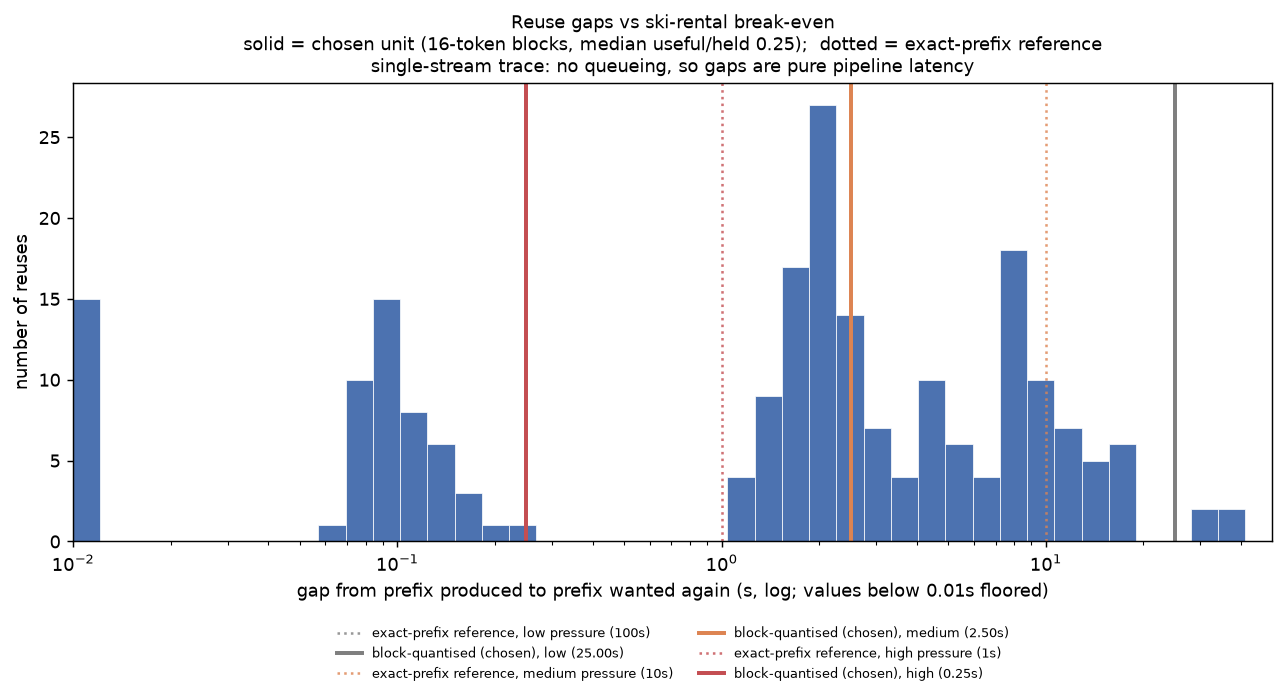
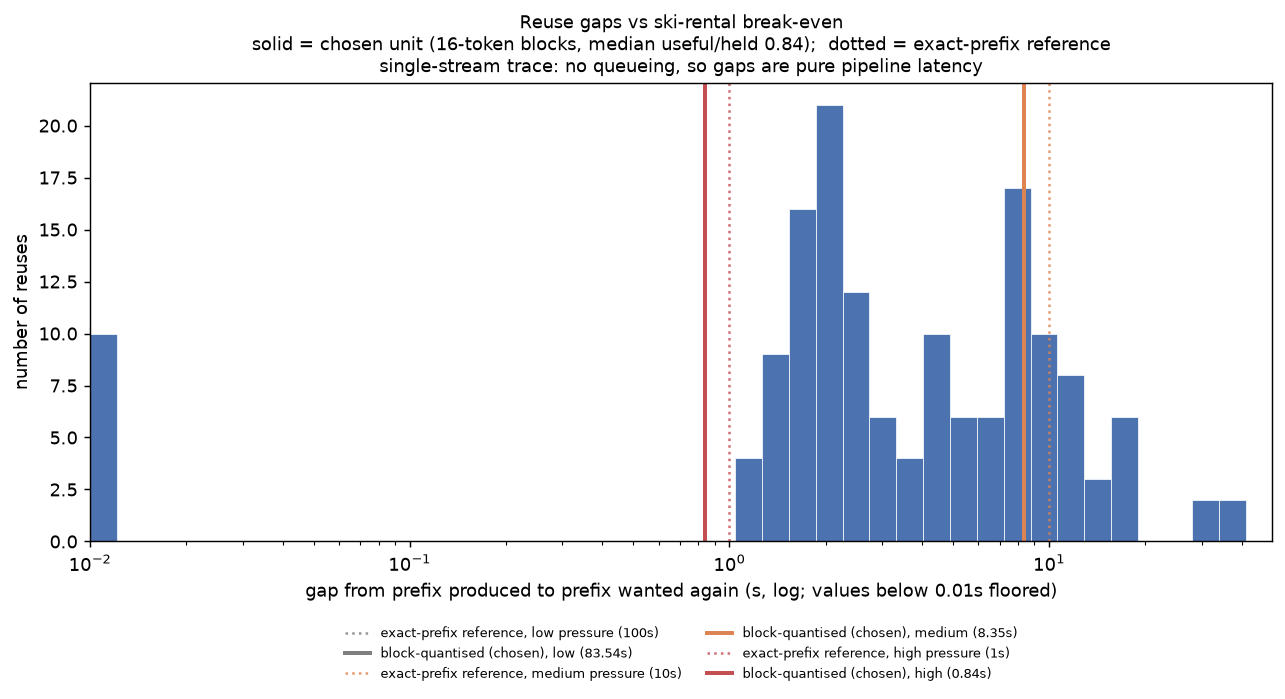
Make prefix matching model-aware; fix two-process segmentation
A KV cache belongs to one model instance, so a prefix qwen computed cannot
serve a llama3.2 call however identical the text. compute_prefixes now only
matches earlier calls on the same model, the model is part of the cache key,
and the engine refuses a cross-model entry as defence in depth.
same_model_only=False reproduces the earlier figures.

Also fixes segmentation when two processes share a run_id. MAARA_RUN_ID pins
the trace filename, so a run resumed under the same id appends a second seq
sequence starting again at 1; sorting by seq interleaved them and fabricated a
task-run boundary on nearly every row. The shared-first trace segmented into
305 blocks instead of 60, which invalidated every reuse figure computed from
it. Now ordered by t_start with a new process group wherever seq fails to
advance.

Effect of the model correction on the original layout is small (reusable 13.8%
-> 13.7%) because its reuse was almost entirely same-role. On the shared-first
layout it is large (20.2% -> 12.0%): most of that layout's apparent gain was
cross-model sharing a real cache could never use.

HANDOFF section 14a records both corrections. Figures regenerated per set.

diff --git a/tests/test_trace_loader.py b/tests/test_trace_loader.py
@@ -125,19 +125,21 @@ def test_prefix_finds_the_shared_opening():
     assert pf["b"].shared_tokens == int(len(shared) / (len(shared + "a completely different tail") / 75))
 
 
-def test_prefix_matches_across_roles_not_just_within():
+def test_prefix_matches_across_roles_on_the_same_model():
     """
-    Cross-role is the point: the coder and the Sentinel both carry the issue
-    text. Restricting to same-role would miss exactly the reuse under study.
+    Cross-role matching is the point -- the coder and the debugger both carry
+    the target file, and restricting to same-role would miss it. But the two
+    roles must be on the same model: the evaluator runs llama3.2 while the
+    coder usually runs qwen, and those cannot share a KV cache at all.
     """
-    shared = "ISSUE TEXT " * 30
-    prompts = {"e": [{"role": "user", "content": shared + "evaluate"}],
-               "c": [{"role": "user", "content": shared + "write code"}]}
-    block = [row(1, "T/1", "evaluator", "e", pt=80, model="llama3.2"),
-             row(2, "T/1", "coder", "c", pt=82)]
+    shared = "TARGET FILE " * 30
+    prompts = {"c": [{"role": "user", "content": shared + "write code"}],
+               "d": [{"role": "user", "content": shared + "diagnose"}]}
+    block = [row(1, "T/1", "coder", "c", pt=80, model="qwen2.5-coder:7b"),
+             row(2, "T/1", "debugger", "d", pt=82, model="qwen2.5-coder:7b")]
     pf = compute_prefixes(block, prompts, "r0")
-    assert pf["c"].shares_with == "e"
-    assert pf["c"].shared_tokens > 0
+    assert pf["d"].shares_with == "c"
+    assert pf["d"].shared_tokens > 0
 
 
 def test_prefix_picks_the_longest_of_several_earlier_calls():
@@ -302,3 +304,70 @@ def test_real_timing_is_sequential_and_retiming_creates_overlap():
     fast_span = max(t.arrival_time for t in fast)
     assert fast_span < seq_span
     assert [len(t.nodes) for t in seq] == [len(t.nodes) for t in fast]
+
+
+# --- model-aware prefix matching -----------------------------------------
+
+def test_prefix_does_not_match_across_models():
+    """
+    A KV cache belongs to one model instance. Two calls can carry byte-identical
+    prompts and still share nothing if they ran on different models -- counting
+    that as reuse overstates what any prefix cache could deliver.
+    """
+    shared = "IDENTICAL PREFIX " * 20
+    prompts = {"q": [{"role": "user", "content": shared + "qwen tail"}],
+               "l": [{"role": "user", "content": shared + "llama tail"}]}
+    block = [row(1, "T/1", "coder", "q", pt=90, model="qwen2.5-coder:7b"),
+             row(2, "T/1", "evaluator", "l", pt=92, model="llama3.2")]
+
+    pf = compute_prefixes(block, prompts, "r0")
+    assert pf["l"].shared_tokens == 0 and pf["l"].shares_with is None
+
+    # The uncorrected view, kept only to reproduce the earlier figures.
+    old = compute_prefixes(block, prompts, "r0", same_model_only=False)
+    assert old["l"].shares_with == "q" and old["l"].shared_tokens > 0
+
+
+def test_prefix_still_matches_within_a_model():
+    shared = "IDENTICAL PREFIX " * 20
+    prompts = {"a": [{"role": "user", "content": shared + "one"}],
+               "b": [{"role": "user", "content": shared + "two"}]}
+    block = [row(1, "T/1", "coder", "a", pt=90, model="qwen2.5-coder:7b"),
+             row(2, "T/1", "debugger", "b", pt=90, model="qwen2.5-coder:7b")]
+    pf = compute_prefixes(block, prompts, "r0")
+    assert pf["b"].shares_with == "a" and pf["b"].shared_tokens > 0
+
+
+def test_prefix_key_carries_the_model():
+    prompts = {"a": [{"role": "user", "content": "P" * 200 + "x"}],
+               "b": [{"role": "user", "content": "P" * 200 + "y"}]}
+    block = [row(1, "T/1", "coder", "a", pt=50, model="qwen2.5-coder:7b"),
+             row(2, "T/1", "coder", "b", pt=50, model="qwen2.5-coder:7b")]
+    pf = compute_prefixes(block, prompts, "r0")
+    assert "qwen2.5-coder:7b" in pf["b"].prefix_key
+
+
+def test_engine_refuses_a_cross_model_entry(tmp_path):
+    """Defence in depth: even if a key collided, the engine must not reuse an
+    entry another model produced."""
+    from sim.engine import Engine, EngineConfig, KVEntry
+    from sim.policies import ExecutionEstimator, FCFSScheduler, LRURetention
+    from sim.workload import (CostModel, CpuStageSeconds, StageTokens,
+                              WorkloadConfig, generate_trace)
+
+    cost, tok, cpu = CostModel(), StageTokens.from_measured(), CpuStageSeconds.from_measured()
+    tasks = generate_trace(WorkloadConfig(n_tasks=3, seed=1), cost, tok, cpu)
+    eng = Engine(tasks, cost, EngineConfig(kv_budget_mb=4096.0, max_batch=4),
+                 retention=LRURetention(), scheduler=FCFSScheduler(),
+                 estimator=ExecutionEstimator(cost, tok, cpu))
+
+    node = next(n for t in tasks for n in t.nodes if n.prefix_key)
+    planted = KVEntry(key=node.prefix_key, model="some-other-model", tokens=999,
+                      nbytes=cost.kv_bytes("llama3.2", 999), useful_tokens=999,
+                      recompute_s=1.0)
+    eng.entries[node.prefix_key] = planted
+
+    from sim.engine import Request
+    r = Request(req_id=9999, node=node, enqueued_at=0.0)
+    assert eng._try_admit(r) is True
+    assert r.prefix_hit is False, "reused an entry belonging to another model"

diff --git a/sim/trace_loader.py b/sim/trace_loader.py
@@ -127,13 +127,21 @@ def segment_task_runs(rows):
 
     blocks = []
     for _, rs in sorted(by_run.items(), key=lambda kv: run_start(kv[1])):
-        cur = None
-        for r in sorted(rs, key=lambda r: r["seq"]):
-            if cur is None or r["task_id"] != cur[-1]["task_id"]:
-                cur = [r]
-                blocks.append(cur)
+        # Two processes can share a run_id: MAARA_RUN_ID pins the filename, so
+        # an interrupted run resumed under the same id appends a SECOND seq
+        # sequence starting again at 1. Sorting by seq then interleaves them
+        # and fabricates a task-run boundary on every other row.
+        #
+        # Order chronologically -- t_start is comparable across processes --
+        # and start a new process group wherever seq fails to advance.
+        for r in sorted(rs, key=lambda r: (r.get("t_start") or 0.0, r["seq"])):
+            new_process = blocks and r["seq"] <= blocks[-1][-1]["seq"] and \
+                r["task_id"] == blocks[-1][-1]["task_id"]
+            if (not blocks or r["task_id"] != blocks[-1][-1]["task_id"]
+                    or new_process):
+                blocks.append([r])
             else:
-                cur.append(r)
+                blocks[-1].append(r)
     return blocks
 
 
@@ -256,9 +264,10 @@ class PrefixInfo:
     chars_per_token: float = 0.0
     prefix_key: Optional[str] = None
     prompt_chars: int = 0
+    model: str = ""
 
 
-def compute_prefixes(block, prompts_by_call, run_key: str):
+def compute_prefixes(block, prompts_by_call, run_key: str, same_model_only=True):
     """
     For each call, the longest common prefix against every EARLIER call in the
     same task run, any role.
@@ -279,11 +288,19 @@ def compute_prefixes(block, prompts_by_call, run_key: str):
         msgs = prompts_by_call.get(r["call_id"])
         text = render_prompt(msgs) if msgs else ""
         pt = r.get("prompt_tokens") or 0
-        info = PrefixInfo(call_id=r["call_id"], prompt_chars=len(text),
+        model = r.get("model", "")
+        info = PrefixInfo(call_id=r["call_id"], prompt_chars=len(text), model=model,
                           chars_per_token=(len(text) / pt) if pt else 0.0)
 
         best_len, best_id = 0, None
-        for prev_id, prev_text in texts:
+        for prev_id, prev_text, prev_model in texts:
+            # A KV cache belongs to one model instance. A prefix computed by
+            # qwen cannot serve a llama3.2 call however identical the text, so
+            # cross-model matches are not reuse -- they are a measurement
+            # error. same_model_only=False reproduces the earlier, wrong
+            # figures for comparison.
+            if same_model_only and prev_model != model:
+                continue
             n = _lcp_len(text, prev_text)
             if n > best_len:
                 best_len, best_id = n, prev_id
@@ -293,10 +310,12 @@ def compute_prefixes(block, prompts_by_call, run_key: str):
             info.shared_tokens = int(best_len / info.chars_per_token)
             info.shares_with = best_id
             digest = hashlib.sha1(text[:best_len].encode()).hexdigest()[:10]
-            info.prefix_key = f"{run_key}:{digest}"
+            # Model in the key so the simulator can never match across models
+            # even if two of them produce byte-identical prefixes.
+            info.prefix_key = f"{run_key}:{model}:{digest}"
 
         out[r["call_id"]] = info
-        texts.append((r["call_id"], text))
+        texts.append((r["call_id"], text, model))
     return out
 
 

diff --git a/sim/engine.py b/sim/engine.py
@@ -315,6 +315,12 @@ class Engine:
         node = r.node
         key = node.prefix_key
         entry = self.entries.get(key) if key else None
+        if entry is not None and entry.model != r.model:
+            # A KV cache belongs to one model instance, so an entry another
+            # model produced cannot be reused however identical the text.
+            # Keys already carry the model; this is defence in depth against a
+            # trace or generator that forgets to include it.
+            entry = None
         hit = entry is not None
 
         # KV is allocated in whole blocks, so a 4-token shared prefix still

diff --git a/sim/workload.py b/sim/workload.py
@@ -396,8 +396,10 @@ def _build_task(task_id: int, arrival: float, rng: random.Random,
                           replan_index=ctx["replan"], **kw))
         return nid
 
-    issue_key = f"t{task_id}:issue"
-    stable_key = f"t{task_id}:stable_ctx"
+    # Model is part of the key: a KV cache belongs to one model instance, so
+    # two calls can only share an entry if they ran on the same model.
+    issue_key = f"t{task_id}:{CODER_MODEL}:issue"
+    stable_key = f"t{task_id}:{CODER_MODEL}:stable_ctx"
 
     # Step 1: parse_issue
     prev = add("parse_issue", Kind.LLM, [], model=CODER_MODEL,

diff --git a/sim/HANDOFF.md b/sim/HANDOFF.md
@@ -460,6 +460,28 @@ batching with load-dependent rent is not proven here.
 
 ---
 
+## 14a. Corrections to the Phase 2 and Phase 4 reuse figures
+
+Two errors were found after those phases were written. Numbers quoted from
+them before 2026-09-30 are wrong.
+
+**Prefix matching ignored the model.** A KV cache belongs to one model
+instance, so a prefix qwen computed cannot serve a llama3.2 call however
+identical the text. `compute_prefixes` compared across models and counted
+those as reuse. Now model-aware, with the model in the cache key and a guard
+in the engine. Effect on the original layout is small — reusable fraction
+13.8% -> 13.7%, saved prefill 50.1s -> 49.6s — because almost all of its reuse
+was same-role and therefore already same-model. Effect on the shared-first
+layout is large: 20.2% -> 12.0%. `same_model_only=False` reproduces the old
+figures.
+
+**Segmentation merged two processes sharing a run_id.** `MAARA_RUN_ID` pins
+the trace filename, so a run resumed under the same id appends a second `seq`
+sequence starting again at 1. Sorting by `seq` interleaved them and fabricated
+a task-run boundary on nearly every row — the shared-first trace segmented
+into 305 blocks instead of 60. Now ordered by `t_start` with a new process
+group wherever `seq` fails to advance.
+
 ## 14. MAARA writeup issues
 
 Found while wiring trace logging. **No code was changed for any of these** —
